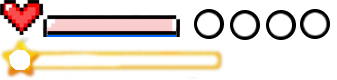
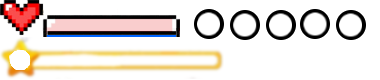
scenario

diff --git a/src/main/java/org/lpdql/dragon/scenario/ScenarioEpee.java b/src/main/java/org/lpdql/dragon/scenario/ScenarioEpee.java
@@ -67,6 +67,11 @@ public class ScenarioEpee extends Scenario {
             );
             lettre.loadAnimation(spriteSheet_letter, 0, 6, 0);
 
+            Effet importantLettre = new Effet("iLettre",
+                    new Point((int)lettre.getPosition().getX() /*- 16*/, (int)lettre.getPosition().getY() - lettre.getTaille().getHauteur() - 24), new Taille(16, 24));
+            importantLettre.loadAnimation(spriteSheet_important, 0, 4, 0);
+            this.getLesEffets().add(importantLettre);
+
             // set a story element who should be donne if interact
             lettre.setStoryElement(Story.LIRELETTRE);
             super.getLesObjets().add(lettre);
@@ -140,6 +145,7 @@ public class ScenarioEpee extends Scenario {
             if(!Story.TUTOFIRSTENNEMIWASKILLED.getState()) {
                 Story.TUTOPARLEROLDMAN.setState(false);
                 Story.TUTOSPAWNENNEMI.setState(false);
+                Story.OWNBASICSWORD.setState(false);
             }
         }
     }
@@ -150,6 +156,19 @@ public class ScenarioEpee extends Scenario {
      */
     @Override
     public void update(Carte map, Camera camera) {
+        if(!Story.GAMESTART.getState()) {//  plein de nouvelles aventures t'attendes
+
+            EcranJeu.lesMessages.add(
+                    "Bienvenue chez toi " + InterStateComm.getLeHero().getNom() + ", tu n'as plus aucunes nouvelles de ton père depuis près d'un ans.\n" +
+                    "Il semble qu'une lettre soit arrivé aujoud'hui chez toi. Lis là elle t'apportera je pense beaucoup !\n" +
+                    "J'esperes que tu es pret.. plein de nouvelles aventures t'attendes.."
+            );
+
+            Story.GAMESTART.done();
+        }
+
+
+
         if(Story.TUTOPARLEROLDMAN.getState())
         {
             if(!Story.TUTOSPAWNENNEMI.getState() && !Story.TUTOEND.getState()) {
@@ -161,6 +180,14 @@ public class ScenarioEpee extends Scenario {
                 super.getLesEnnemis().add(firstEnnemi);
 
                 Story.TUTOSPAWNENNEMI.done();
+                Story.OWNBASICSWORD.done();
+
+                // -- play sound here
+                sounds.playZik("victory");
+                EcranJeu.lesMessages.add(
+                        "Vous venez de gagner l'épée basique. Elle va vous permettre de vous defendre contre les ennemis hostiles#" +
+                        "Servez-vous-en pour terrasser votre premier ennemi.. Il est là.."
+                );
             }
             //--
         }

diff --git a/src/main/java/org/lpdql/dragon/hud/Hud.java b/src/main/java/org/lpdql/dragon/hud/Hud.java
@@ -28,6 +28,7 @@ public class Hud {
      */
     private Image playerbars;
 	private Image epee;
+	private Image epeeBasic;
 	private Image bouclier;
 	private Image feu;
 	private Image air;
@@ -40,6 +41,7 @@ public class Hud {
     public void init() throws SlickException {
         this.playerbars = new Image("data/playerBar.png");
         this.epee = new Image("data/art_combat/epee.png");
+        this.epeeBasic = new Image("data/art_combat/epeeBasic.png");
         this.bouclier = new Image("data/art_combat/bouclier.png");
         this.feu = new Image("data/art_combat/feu.png");
         this.air = new Image("data/art_combat/air.png");
@@ -55,7 +57,7 @@ public class Hud {
             this.levelExperience = new LevelExperience();
     	
         g.resetTransform();
-        //---- Nom du Joeur
+        //---- Nom du Joueur
         Font fontG = g.getFont();
         String nomJoeur = hero.getNom();
         fontG.drawString(60,8, nomJoeur, Color.black);
@@ -66,7 +68,16 @@ public class Hud {
         g.setColor(XP_COLOR_FOND);
         g.fillRect(40, 64, 190, 13);
         g.fillRoundRect(19, 58, 23, 23, 30);
-        
+
+        if(hero.isOwnBasicSword()) {
+            g.setColor(Color.white);
+            g.fillRoundRect(346, 21, 28, 28, 30);
+            g.drawImage(this.epeeBasic, 352, 26);
+        } else {
+            g.setColor(Color.black);
+            g.fillRoundRect(346, 21, 28, 28, 30);
+        }
+
         //-- Arte de combat
         if(hero.getArtEpee()) {
         	g.setColor(Color.white);

diff --git a/src/main/java/org/lpdql/dragon/scenario/Story.java b/src/main/java/org/lpdql/dragon/scenario/Story.java
@@ -11,6 +11,8 @@ public enum Story {
     TUTOSPAWNENNEMI("tuto_spawn_ennemi", "Apparition du premier ennemi", "Un ennemi est apparu tu dois le tuer..", false),
     TUTOFIRSTENNEMIWASKILLED("tuto_first_kill", "Le premier ennemi est mort", "Bien joué vous avez tué votre premier ennemi..", false),
     TUTOEND("fin_tuto", "Fin du tuto jeu", "Le tuto doit être terminé pour poursuivre..", false),
+    OWNBASICSWORD("ownbasicsword", "Gagner l'épée basique", "Vous n'avez pas encore gagné l'épée basique..", false),
+
 
     GAMESTART("debut_jeu", "le tuto est termine", "Le tuto doit être termine pour debuter le jeu..", false),
 

diff --git a/src/main/java/org/lpdql/dragon/jeu/Message.java b/src/main/java/org/lpdql/dragon/jeu/Message.java
@@ -65,7 +65,7 @@ public class Message {
         String[] listDeChaine = text.split("#");
         for(String chaine : listDeChaine)
         {
-            this.text.add(chaine + ((chaine.length() > 0) ? " ":"") + "(appuyez sur [w] pour continuer...)");
+            this.text.add(chaine);// + ((chaine.length() > 0) ? " ":"") + "(appuyez sur [w] pour continuer...)");
         }
         this.posisition = 0;
     }

diff --git a/src/main/java/org/lpdql/dragon/personnages/Hero.java b/src/main/java/org/lpdql/dragon/personnages/Hero.java
@@ -355,6 +355,14 @@ public class Hero extends Personnage {
         this.niveau = levelGagne;
     }
 
+    public boolean isOwnBasicSword() {
+        return Story.OWNBASICSWORD.getState();
+    }
+
+    public void setOwnBasicSword(boolean stats) {
+        Story.OWNBASICSWORD.setState(stats);
+    }
+
     public boolean getArtEpee() { return Story.ARTEPEE.getState(); }
 
     public boolean isArtEpee() {

diff --git a/src/main/java/org/lpdql/dragon/ecrans/EcranJeu.java b/src/main/java/org/lpdql/dragon/ecrans/EcranJeu.java
@@ -82,7 +82,7 @@ public class EcranJeu extends BasicGameState {
      * Version 0 de la class scenario / histoire du jeu.
      * à modifier commit 30-03
      **/
-    private  org.lpdql.dragon.scenario.Scenario scenario;
+    private org.lpdql.dragon.scenario.Scenario scenario;
 
     /**
      * This variable manage the game Head up display

diff --git a/src/main/java/org/lpdql/dragon/objets/Objet.java b/src/main/java/org/lpdql/dragon/objets/Objet.java
@@ -182,4 +182,12 @@ public class Objet implements StoryElement {
     public Rectangle getBoundingBox() {
         return this.box;
     }
+
+    public Point getPosition() {
+        return position;
+    }
+
+    public Taille getTaille() {
+        return this.taille;
+    }
 }

diff --git a/src/main/java/org/lpdql/dragon/ecrans/EcranTransition.java b/src/main/java/org/lpdql/dragon/ecrans/EcranTransition.java
@@ -7,9 +7,7 @@ package org.lpdql.dragon.ecrans;
  * @author: Diuxx
  */
 public class EcranTransition {
-    /**
-     * Class constructor
-     */
-    public EcranTransition() {
-    }
+
+    private static int to;
+
 }
